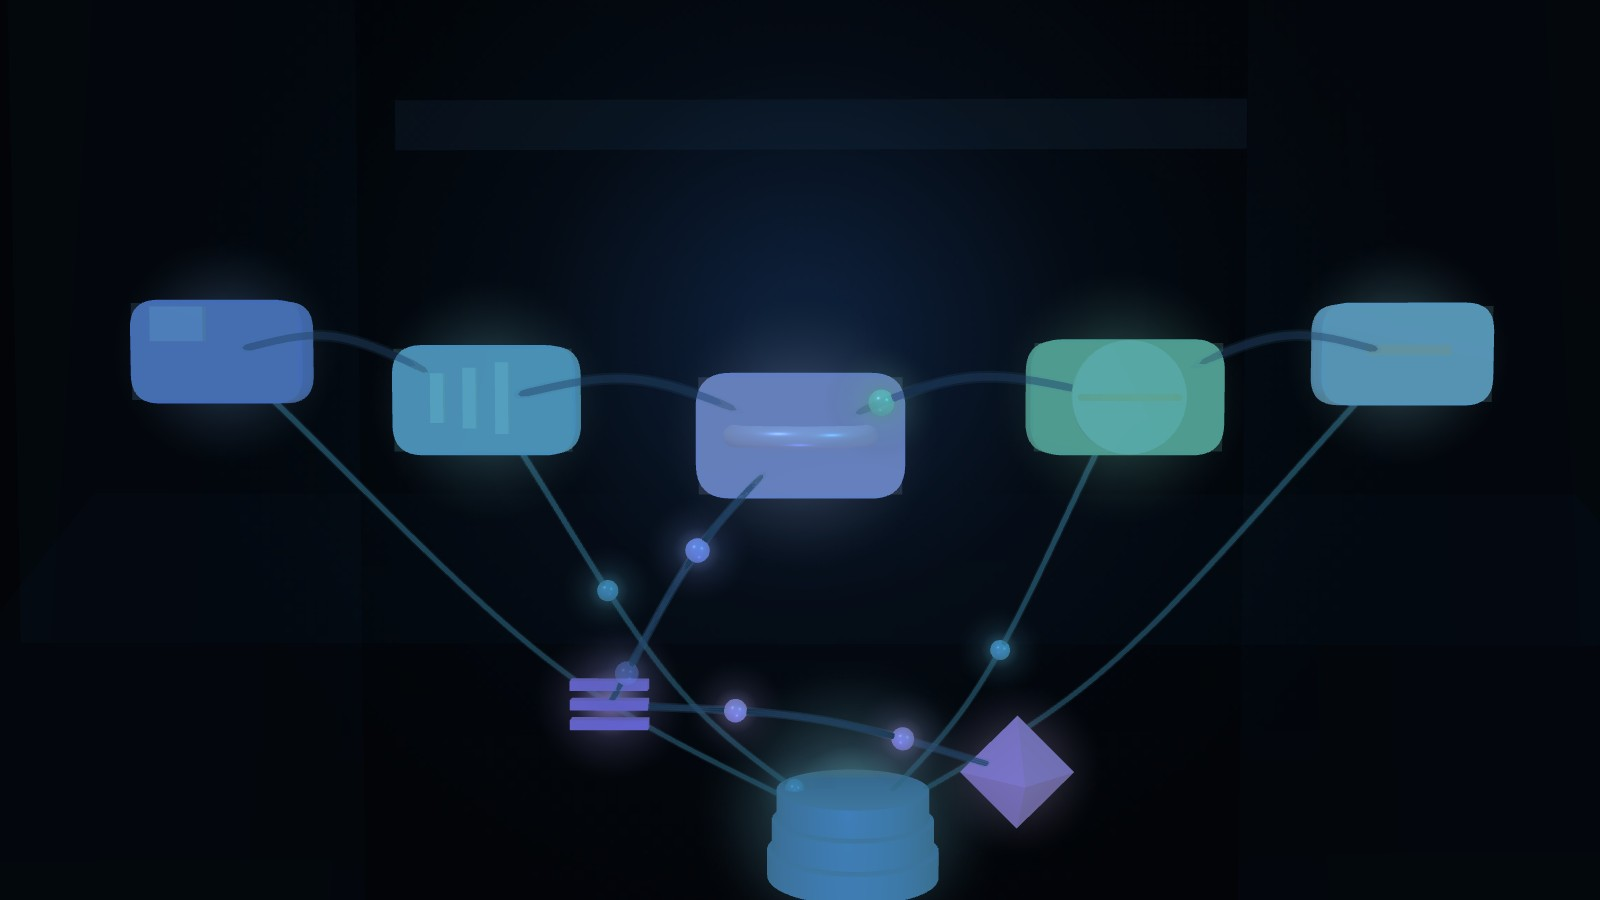
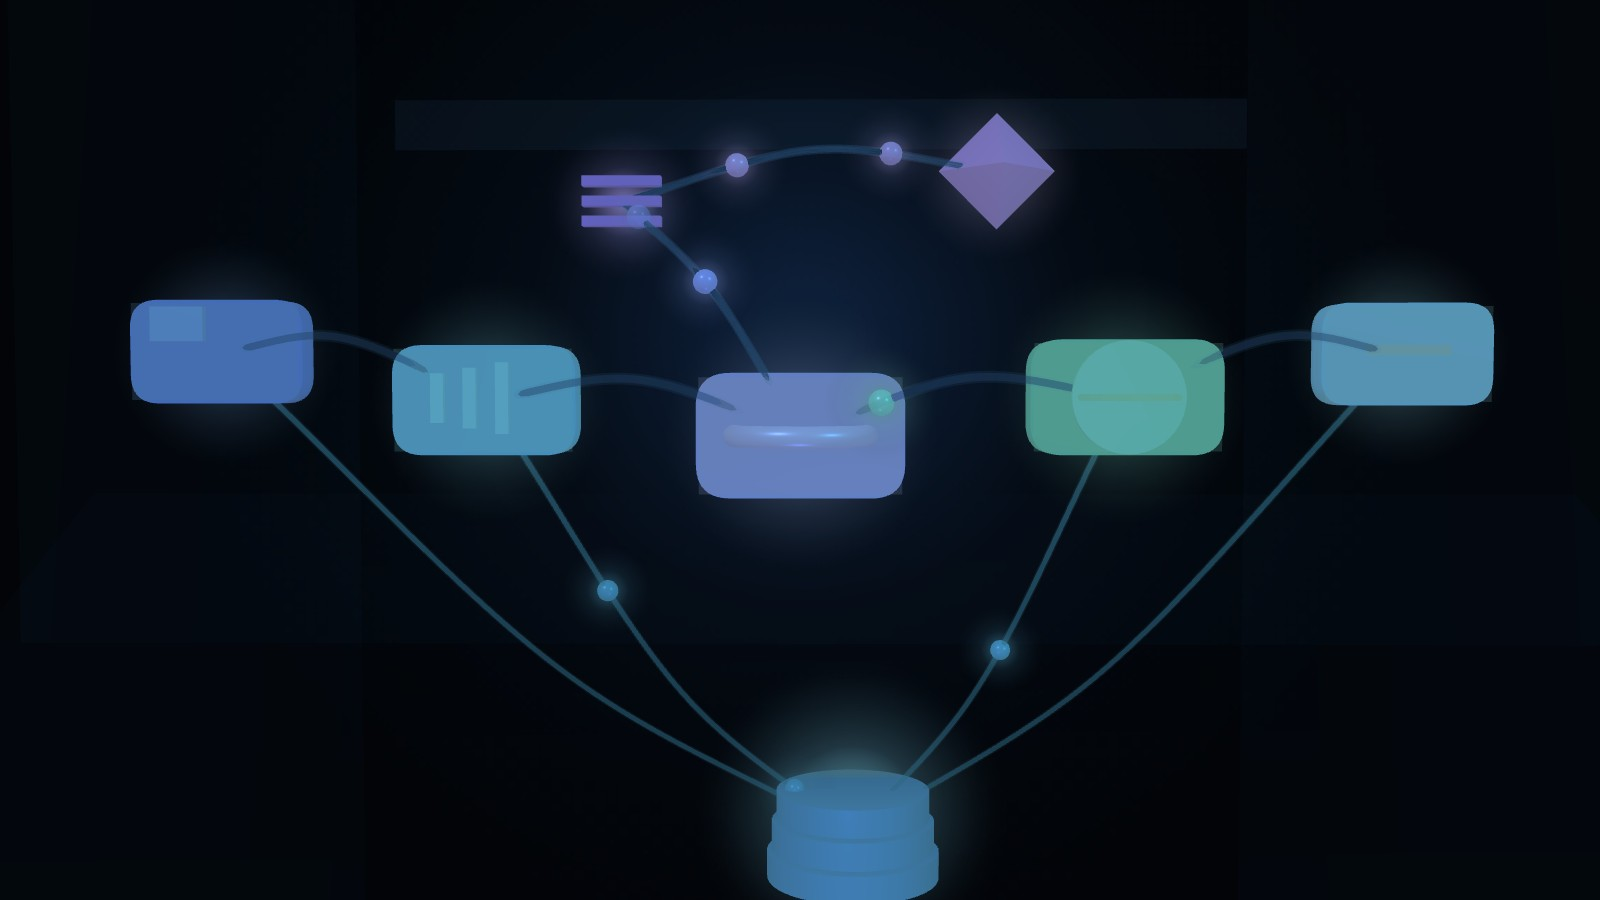
Refine homepage support actor layout

Changed region(s): [[0.3438, 0.1244, 0.6562, 0.3733], [0.3438, 0.7156, 0.6875, 0.9333], [0.4062, 0.56, 0.4688, 0.6844]]

diff --git a/docs/public/replay-viewer/app.js b/docs/public/replay-viewer/app.js
@@ -1037,22 +1037,13 @@ function buildTopology(topology) {
     const sourcePositions = inboundStoreTransitions
       .map((transition) => nodePositions.get(transition.from))
       .filter(Boolean);
-    let averageX;
-    if (sourcePositions.length > 0) {
-      averageX = sourcePositions.reduce((sum, position) => sum + position.x, 0) / sourcePositions.length;
-    } else {
-      const existingPositions = Array.from(nodePositions.values());
-      if (existingPositions.length > 0) {
-        const minX = Math.min(...existingPositions.map((pos) => pos.x));
-        const maxX = Math.max(...existingPositions.map((pos) => pos.x));
-        const centerX = (minX + maxX) / 2;
-        const width = maxX - minX;
-        averageX = centerX + (index - (storeActors.length - 1) / 2) * (width / Math.max(1, storeActors.length - 1));
-      } else {
-        averageX = index * 0.9;
-      }
-    }
-    const x = sourcePositions.length > 0 ? averageX + index * 0.9 : averageX;
+    const averageX = sourcePositions.length > 0
+      ? sourcePositions.reduce((sum, position) => sum + position.x, 0) / sourcePositions.length
+      : topologyCenterX;
+    const spreadOffset = storeActors.length > 1
+      ? ((index / (storeActors.length - 1)) - 0.5) * Math.min(2.4, topologyWidth * 0.38)
+      : 0;
+    const x = averageX + spreadOffset;
     const y = PRIMARY_ROW_Y - BRANCH_ROW_OFFSET_Y - 0.28 - index * 0.3;
     registerNode(step, new THREE.Vector3(x, y, 0));
   });

diff --git a/tools/homepage-replay-video/render_scene.js b/tools/homepage-replay-video/render_scene.js
@@ -258,8 +258,8 @@ function controlPointsForEdge(fromNode, toNode, edge) {
   const midpoint = start.clone().lerp(end, 0.5);
   const liftByKind = {
     primary: 0.38,
-    request: -0.78,
-    completion: -0.05,
+    request: 1.2,
+    completion: 0.92,
     store: -1.05
   };
   midpoint.y += liftByKind[edge.kind] ?? 0.3;